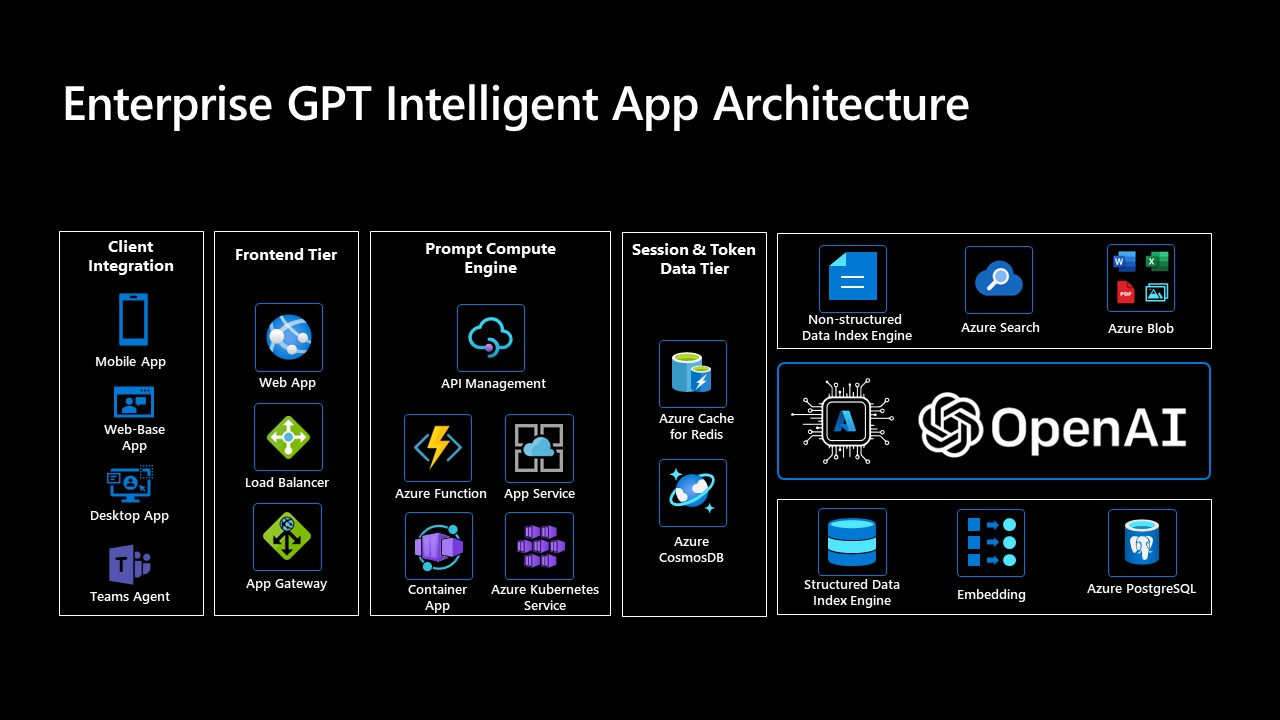
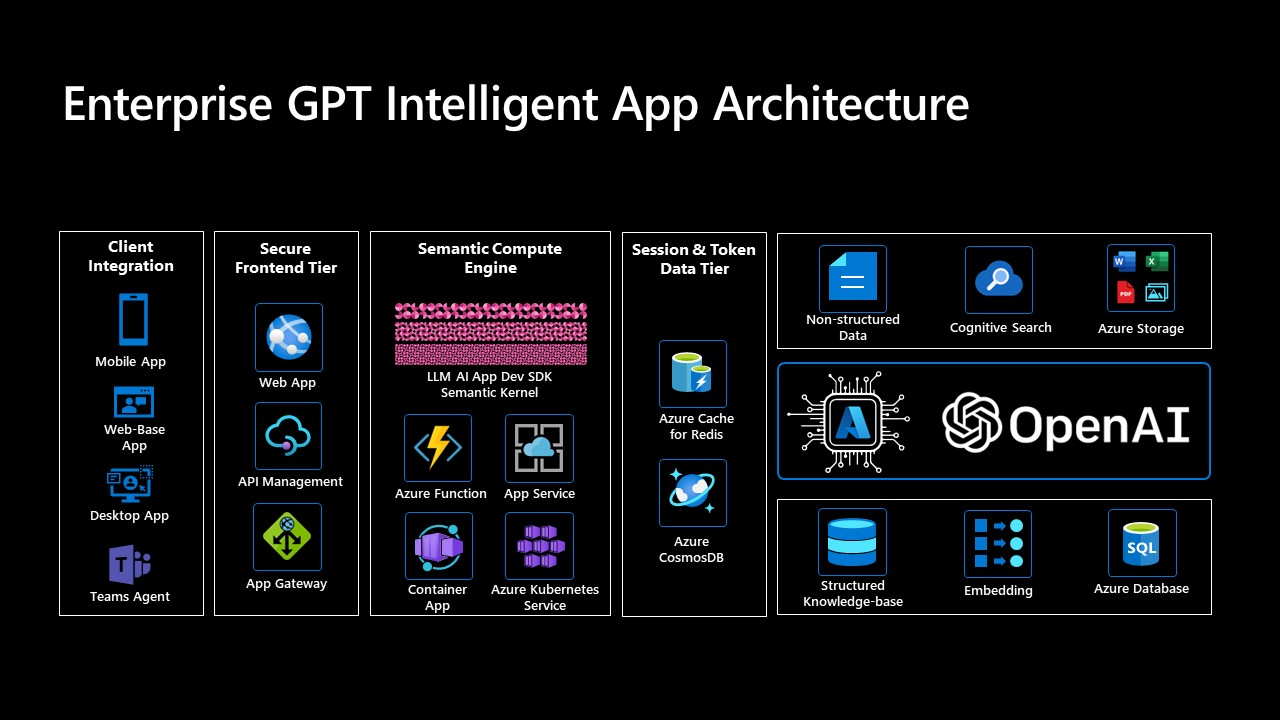
update

diff --git a/README.md b/README.md
@@ -7,7 +7,7 @@ Based on these research findings, we have proposed a framework for enterprise-le
 
  ![architecture](./media/Enterprise-GPT-Intelligent-App-Workshop.jpg)
 
-As shown in the diagram, this architecture utilizes a flexible prompt engine and supports various deployment forms such as PaaS, Serverless, and containers, enabling enterprises to optimize the prompt engine using their existing development technology stack and elastically scale computing resources according to real-time business needs. The session and token data service layer, based on Redis and CosmosDB, adds contextual caching, session persistence, prompt persistence, and other capabilities to the application, leaving room for future model or engine optimization based on prompts. The API encapsulation, load balancing, and gateway at the front end further enhance application security and reliability, allowing the intelligent entity to integrate with various front-end apps in a more secure and stable manner. Most importantly, this architecture is designed with a dual-engine architecture based on Azure Cognitive Search and Embedding, two additional private knowledge base technologies. On the one hand, Azure Cognitive Search can quickly index unstructured data such as PDF and WORD files, allowing existing data to be used immediately. On the other hand, by utilizing Azure PostgreSQL's vector storage and processing capabilities and combining them with Azure OpenAI's embedding vector generation model, the enterprise's existing structured knowledge base can be integrated with the prompt engine, producing more accurate, stable, and reliable results from the GPT model.
+As shown in the diagram, this architecture utilizes a flexible semantic kernel as prompt engine and supports various deployment forms such as PaaS, Serverless, and containers, enabling enterprises to optimize the prompt engine using their existing development technology stack and elastically scale computing resources according to real-time business needs. The session and token data service layer, based on Redis and CosmosDB, adds contextual caching, session persistence, prompt persistence, and other capabilities to the application, leaving room for future model or engine optimization based on prompts. The API encapsulation, load balancing, and gateway at the front end further enhance application security and reliability, allowing the intelligent entity to integrate with various front-end apps in a more secure and stable manner. Most importantly, this architecture is designed with a dual-engine architecture based on Azure Cognitive Search and Embedding, two additional private knowledge base technologies. On the one hand, Azure Cognitive Search can quickly index unstructured data such as PDF and WORD files, allowing existing data to be used immediately. On the other hand, by utilizing Azure Database with vector storage and processing capabilities and combining them with Azure OpenAI's embedding vector generation model, the enterprise's existing structured knowledge base can be integrated easily, producing more accurate, stable, and reliable results from the GPT model.
 
 ## LLM Dev Framework / SDK
 
